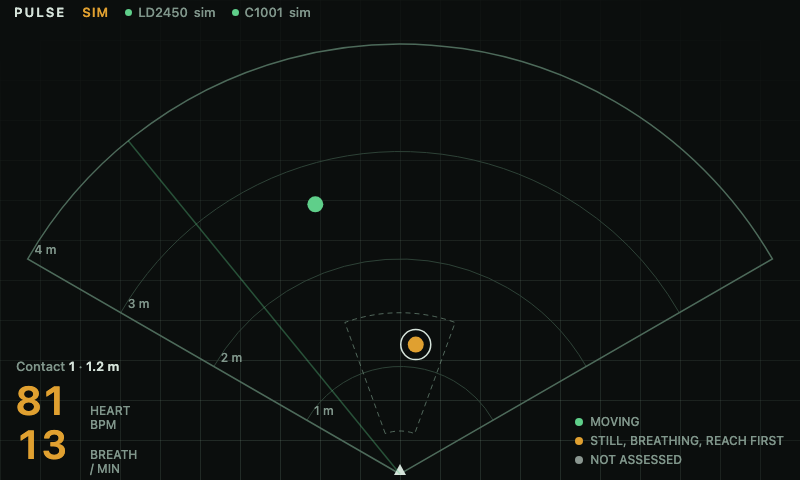
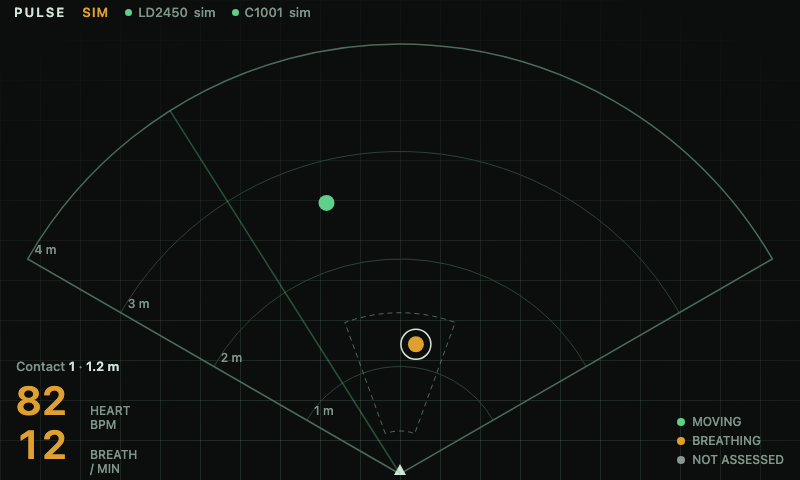
Shorten the amber triage label to BREATHING
Drop the 'still, breathing, reach first' copy: one or two words per class, and
no search-and-rescue framing in the UI. Updates contract.js, the contract doc,
the T4 prompt text, and regenerates the screenshots.

diff --git a/ui/contract.js b/ui/contract.js
@@ -6,7 +6,7 @@ export const CONTRACT_VERSION = 1;
 
 export const SOURCES = ["sim", "live", "replay"];
 export const TRIAGE = {"GREEN": "green", "AMBER": "amber", "GRAY": "gray"};
-export const TRIAGE_LABELS = {"green": "MOVING", "amber": "STILL, BREATHING, REACH FIRST", "gray": "NOT ASSESSED"};
+export const TRIAGE_LABELS = {"green": "MOVING", "amber": "BREATHING", "gray": "NOT ASSESSED"};
 
 export const SENSOR_NAMES = ["ld2450", "c1001"];
 export const SENSOR_STATUSES = ["ok", "warming", "stale", "offline", "sim"];

diff --git a/docs/PROMPTS.md b/docs/PROMPTS.md
@@ -156,8 +156,8 @@ Read CLAUDE.md, docs/data-contract.md, and the current ui/ code. Add interaction
 
 1) Tap a dot (hit radius at least 48 px, pick the nearest if overlapping) to open a card for that contact
    (bottom sheet or side panel, whatever fits 800x480 best). Card shows: contact number, range in m,
-   bearing like "12 deg L", MOVING or STILL, triage in plain words ("MOVING", "STILL, BREATHING,
-   REACH FIRST", "NOT ASSESSED"), time since first seen.
+   bearing like "12 deg L", MOVING or STILL, triage in plain words ("MOVING", "BREATHING",
+   "NOT ASSESSED"), time since first seen.
    - If this contact is locked: big heart bpm and breaths/min, "settling..." when null.
    - If not locked: an arrow and "Get within 1.5 m and aim at them", with the live distance to the lock zone.
    - The card follows the target id. If the target disappears: "SIGNAL LOST", close after 3 s.

diff --git a/docs/data-contract.md b/docs/data-contract.md
@@ -117,7 +117,7 @@ Unknown or invalid messages are ignored and logged. Selection of a dot is UI-onl
    closest to 0 deg. That track gets `locked: true` and `vitals.target_id`.
 8. **Triage**:
    - `green`: moving.
-   - `amber`: not moving, locked, C1001 presence, and `breath_rpm` not null. Label: "still, breathing, reach first".
+   - `amber`: not moving, locked, C1001 presence, and `breath_rpm` not null. Label: "breathing".
    - `gray`: anything else (not assessed yet).
 9. **Vitals sanity**: values outside 10 to 25 (breath) or 60 to 100 (heart), or 0, become null.
 10. **Contacts**: one entry per track id per appearance; update `last_seen`, `triage`, and the last
